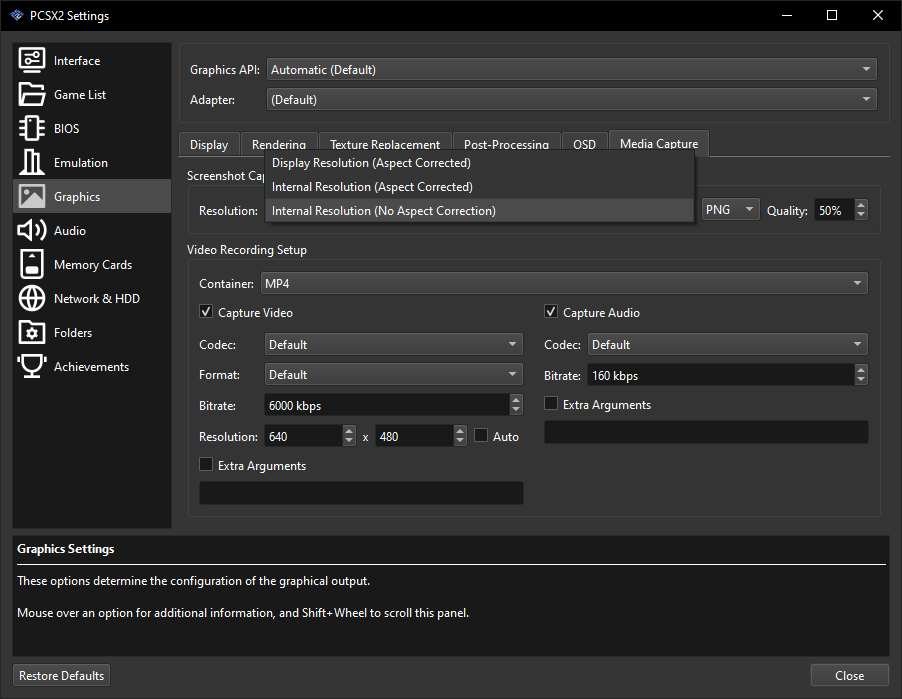
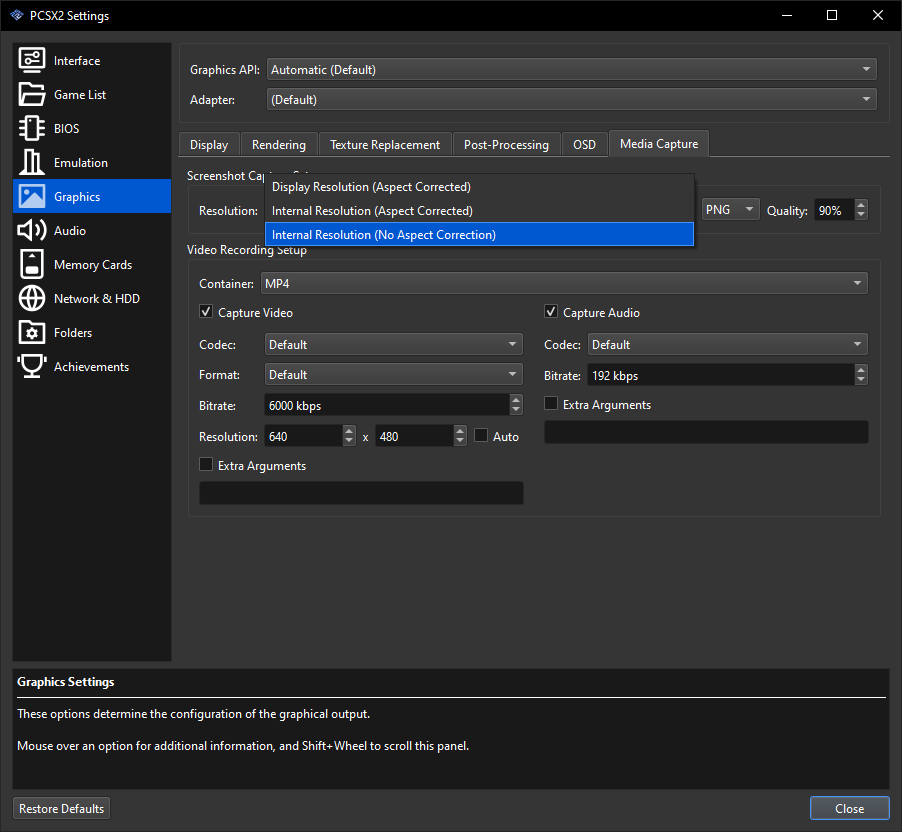
Update Screenshot Guidelines

Changed region(s): [[0.0, 0.0, 1.0, 0.721], [0.0, 0.7511, 0.9933, 0.9013], [0.0, 0.9313, 0.9933, 0.9914]]

diff --git a/docs/guidelines/content/screenshot-guidelines.md b/docs/guidelines/content/screenshot-guidelines.md
@@ -7,18 +7,17 @@ description: Guidelines for contributing game screenshots to RetroAchievements. 
 
 ## Taking Screenshots
 
-- Screenshots should be taken directly from an emulator's screenshot capture function, using the game's natural resolution. Do not use external screenshot tools and do not take screenshots of an upscaled window or full screen display. 2D games should be pixel perfect and 3D games should be their natural resolution.
-- If possible, 3D games can have their internal resolution upscaled by 2x or 3x. Note that this is a special emulator setting, not just resizing the window while it's at 1x internal resolution. This should only be done for 3D games, and only when the result looks good - it may not be desirable if the high quality 3D graphics clash too much with low quality upscaled 2D assets, and it shouldn't be done if the game is purely 2D. If used, 3x is preferred over 2x. Never submit 4x or higher.
-- For most systems, RALibretro is recommended for taking screenshots, since it generally takes them at the appropriate resolution. RetroArch should be avoided since it generally takes screenshots based on your window size.
+- Screenshots should be taken directly from an emulator's screenshot capture function, using the game's natural resolution. Do not use external screenshot tools (unless you really know what you're doing, the game's display is perfect with nothing external included, and tool's format is high quality PNG) and do not take screenshots of an upscaled window or full screen display. 2D games should generally be pixel perfect and 3D games should be their natural resolution.
+- If possible, games on 3D systems can have their internal resolution upscaled by 2x or 3x. Note that this is a special emulator setting, not just resizing the window while it's at 1x internal resolution. This should generally only be done for 3D games (though 2D games can slightly benefit sometimes, especially Wii games), and only when the result looks good - it may not be desirable if the high quality 3D graphics clash too much with low quality upscaled 2D assets (e.g. games with pre-rendered backgrounds and 3D characters), and it shouldn't be done if the game is purely 2D (again, with the exception of Wii and possibly other 2D games that slightly benefit). If used, 3x is preferred over 2x. Never submit 4x or higher.
+- For most systems, RALibretro is recommended for taking screenshots, since it generally takes them at an appropriate resolution (though it's always aspect uncorrected, so it's possible some overly wide or narrow screenshots might need to be resized to 4:3 or another standard aspect ratio). RetroArch should be avoided since it generally takes screenshots based on your window size, unless you really know what you're doing with its settings.
 - Standalone emulators such as DuckStation, PCSX2, Dolphin, and PPSSPP require configuration to have the appropriate screenshot settings. Please read the [Emulator Setup](#emulator-setup) section below.
-- You should generally never manually resize or crop a screenshot, especially if it's just to force a match with the required dimensions. If you're sure you have the appropriate emulator settings and the screenshots are correct for the game, but the site doesn't allow it, it may be an oversight. Please report these cases in the `#cleanup-requests` forum or `#screenshot-help` channel in our [Discord server](https://discord.gg/dq2E4hE) if you're sure it's a mistake.
-- Exceptions can include games for Amstrad CPC and some other systems like PS1 and Saturn where the emulator may produce screenshots that look too wide. You may need to manually resize these screenshots to the game's appropriate resolution using Nearest Neighbor scaling in an image editor. Be sure you know the game's proper resolution and be sure you know how to use Nearest Neighbor scaling if you're dealing with games like this.
-- If a game uses multiple resolutions (e.g. title screen and in-game look different), it may be necessary to resize them to one appropriate resolution for the game, especially for the primary screenshots displayed on the game page. Again, if you're dealing with games like this, be sure you know what the best unified resolution should be for the game and be sure to use Nearest Neighbor scaling.
+- Do not manually resize or crop a screenshot just to force a match with the required dimensions. If you're sure you have the appropriate emulator settings and the screenshots are correct for the game, but the site doesn't allow it, it may be an oversight in the list of allowed dimensions for the system. Please report these cases in the `#cleanup-requests` forum or `#screenshot-help` channel in our [Discord server](https://discord.gg/dq2E4hE) if you're sure it's a mistake.
+- There can be cases where an aspect uncorrected screenshot looks too wide, too narrow, or just not quite right compared to 4:3 or another standard aspect ratio. Amstrad CPC and Uzebox screenshots especially can be too wide, and other systems like PS1 and Saturn can also have these problems. Standalone emulators like DuckStation may have an aspect corrected screenshot option to solve this. But otherwise, you may need to manually resize these screenshots to the game's appropriate resolution using Nearest Neighbor scaling in an image editor. Be sure you know the game's proper resolution and be sure you know how to use Nearest Neighbor scaling if you're dealing with games like this.
 
 ## Submitting Screenshots
 
 - File size must be under 6 MB to upload.
-- Each game allows a maximum of 10 screenshots, including those marked as the title screen and completion screen. You don't have to fill all of these slots - the primary title screen and in-game screenshot and the completion screenshot are what's important.
+- Each game allows a maximum of 10 in-game screenshots, in addition to the title screen and completion screen. You don't have to fill all of these slots - the primary in-game shot, title screen, and completion screenshot are what's important.
 - Some games lack a typical title screen. In these cases, a screenshot of the title during an opening movie or loading screen may be used. If that doesn't exist, an initial menu screen or gameplay screen may be used.
 - Completion screenshots are intended to be "The End" screens that appear after beating the game, whenever possible. If such a screen doesn't exist, or if it's too uninteresting or non-distinct (i.e. pure text on a black background), creativity may be needed in taking a good screenshot during an ending scene, or when finishing the final level, defeating the final boss, winning the final round before looping (for arcade games), etc.
 - If a game currently has low quality primary screenshots for both the title screen and in-game shot, please replace both at the same time. Submitting a higher quality replacement for one while leaving the other in lower quality may be rejected.
@@ -26,14 +25,14 @@ description: Guidelines for contributing game screenshots to RetroAchievements. 
 ## General Guidelines
 
 - No watermarks are to be present on any images.
-- The English language version of the game should be used for screenshots if it exists and it's supported.
+- The English language version of the game should be used for screenshots if it exists and it's supported. English fan translations may be used for foreign language games.
 - Be sure to carefully look at the existing screenshots for a game before submitting more. Multiple screenshots of the same level or scene aren't that interesting - diversity is preferred (as much as the game allows). Do not rush and submit several screenshots of the first level just for the sake of submitting things. In games with multiple playable characters, like fighting games, don't use just one character.
-- Screenshots of menus generally shouldn't be submitted as in-game screenshots unless there's a good reason. Screenshots of gameplay are preferred. Also don't add too many shots of cutscenes at the expense of gameplay (unless it's an especially cutscene-focused game, or something like a VN).
+- Screenshots of menus generally shouldn't be submitted as in-game screenshots unless there's a good reason. Screenshots of gameplay are preferred. Also don't add too many shots of cutscenes at the expense of gameplay (unless it's an especially cinematic game, or something like a visual novel).
 - Try to make screenshots interesting in general - not just characters standing in idle poses at the beginning of each level, but shots with more action and energy as well.
 - Avoid submitting screenshots of spoilers - scenes that involve plot twists, unexpected characters or unexpected boss fights later in the game, etc. Use your best judgment. (completion screenshots are an exception, of course - the site will automatically obscure them as a spoiler)
 - Don't try too hard to be funny or provocative. It may depend on the nature of the game, but in general the screenshots should be neutral - it gets old if they're all trying to be silly.
 - Avoid adding potentially controversial or NSFW content. Even if it's in the nature of the game, screenshots (like other content on game pages) should generally steer clear of it. They can be censored if there's no other option.
-- If named characters or other forms of user input are present in screenshots, using the canonical character names is recommended if possible, or using "RA", or at least normal-sounding names. Don't use nonsense like "AAAAAA" and don't input anything offensive.
+- If named characters or other forms of user input are present in screenshots, using the canonical character names is recommended if possible, or using "RA" or "Cheevo", or at least normal-sounding names. Don't use nonsense like "AAAAAA" and don't input anything offensive.
 - If replacing a low quality primary in-game screenshot, consider reproducing its content if you feel it's interesting, or if it depicts a particularly iconic level or scene or something else that would be missed by the additional screenshots. This is not necessary, but it's something to consider.
 
 ## System-Specific Guidelines
@@ -41,30 +40,35 @@ description: Guidelines for contributing game screenshots to RetroAchievements. 
 - Game Boy screenshots should be in black-and-white. Do not use SGB borders. There can be occasional exceptions in color like Pokémon Yellow and certain homebrew games and hacks that are technically Game Boy Color games, but classified as Game Boy on the site.
 - Emulator filters and shaders should be disabled for screenshots. For example, Game Boy Color and Game Boy Advance should not use color correction, and Apple II should not use a scanline filter.
 - NES color palette can be whatever the default is in your emulator.
-- DS screenshots should include both screens in vertical orientation, without a gap in-between, and with both screens being the same size.
+- NES screenshots can be either 256x224 (default in FCEUmm core in RALibretro) or 256x240 (default in Mesen core). The latter may be preferred for some games if it shows more detail. FCEUmm can produce this size by changing its top and bottom overscan crop settings to 0.
+- DS screenshots should include both screens in vertical orientation, without a gap in-between, and with both screens being the same size. Book-style games can have horizontal orientation instead.
+- Atari 2600 screenshots taken in a narrow resolution will automatically have their width doubled to the proper display when uploaded.
+- For Amstrad CPC in RALibretro, Caprice32's status bar should be disabled, and the crop borders setting should be enabled.
 - As mentioned above, Amstrad CPC games may produce screenshots that look too wide using the Caprice32 core in RALibretro. It's recommended that you only deal with this system if you understand how the games should be displayed. Be sure to use Nearest Neighbor scaling if you have to resize the screenshots in an image editor.
 - Uzebox games may also produce produce screenshots in improper resolutions using the Uzem core in RALibretro. Be sure you know the proper resolution for the game (it can be different for each game) and use Nearest Neighbour scaling to resize the screenshots after taking them.
-- PS1, Saturn, Dreamcast, Arcade, and possibly other systems may also produce screenshots that look too wide in their raw internal resolution. Again, it's recommended that you only submit screenshots for these systems if you understand the game well and what the best resolution may be. Be sure to use Nearest Neighbor scaling if you have to resize the screenshots in an image editor.
-- For PS1, DuckStation can use its aspect corrected Internal Resolution screenshot option to deal with games that come out too wide - but this may not be desirable to leave enabled for every game, such as 2D pixel games in 256x224 that would be stretched out to 4:3.
-- PS1 in particular can produce different resolutions for the title screen and in-game, sometimes in the same aspect ratio (e.g. 640x480 and 512x384). It may be necessary to resize one to match the other (using Nearest Neighbour scaling) to ensure they match on the page.
-- Genesis, Sega CD, Amstrad CPC, and possibly other older systems may have occasional exceptions where the resolution doesn't match between title screen and in-game, but you may not want to resize them and distort the pixels.
+- PS1, Saturn, Dreamcast, Arcade, and possibly other systems may also produce screenshots that look too wide or too narrow in their uncorrected internal resolution. Again, it's recommended that you only submit screenshots for these systems if you understand the game well and what the best resolution may be. Be sure to use Nearest Neighbor scaling if you have to resize the screenshots in an image editor.
+- For PS1, DuckStation can use its aspect corrected Internal Resolution screenshot option to deal with games that come out too wide or too narrow - but this may not be desirable to leave enabled for every game, such as 2D pixel games in 256x224 that would be stretched out to 4:3.
+- PS1 in particular can produce different resolutions for the title screen and in-game. If they're in the same aspect ratio (e.g. 640x480 and 512x384) or close enough, and not one of the overly wide or overly narrow resolutions, it's currently fine to submit them without resizing one to match the other. This remains accurate to the level of detail in both.
+- Genesis, Sega CD, and possibly other older systems can also have occasional games where the resolution doesn't match between title screen and in-game, or even changes in-game, but it's currently fine to submit them without resizing them and distorting the pixels.
 - For PS2, GameCube, and Wii, you may want to use the aspect corrected screenshot option rather than aspect uncorrected if it looks better for the game. This can especially be the case for widescreen Wii games.
 - PS2 games should never have widescreen enabled.
-- Wii games should always have widescreen enabled (this should already be the default in Dolphin).
+- Wii games should generally have widescreen enabled (this should already be the default in Dolphin). However, 4:3 screenshots can be submitted if widescreen isn't supported by the game or doesn't appear right.
 - For PC-88, avoid using Skip Line or Interlace modes (this should already be the default in RAQUASI88).
+- For Apple II in RAppleWin, disable the 50% Scan Lines option and set Video Mode to Color (Composite Idealized) or Color (RGB Card/Monitor) (may depend on the game). Use Shift + Print Screen to take a 280x192 screenshot (generally preferred), or Print Screen alone to take a 560x384 screenshot (may be required for certain games like text adventures). The screenshot will be in BMP format in the same folder as the game you launched, and it must be converted to PNG format using an image editor before uploading.
 
 ## Screenshot Dimensions
 
 - Listed below are the standard image dimensions for each system. Some systems may differ depending on the game.
-- A reminder: in general, please do not manually resize or crop your screenshots to match with these dimensions. They should be produced automatically by the emulator with appropriate settings, with rare exceptions that may be explained elsewhere on this page. If you believe an error has been made, please report it in the `#cleanup-requests` forum or `#screenshot-help` channel as explained above.
+- For 3D systems, only the 1x resolutions are listed here, but 2x and 3x resolutions will automatically be accepted as well.
+- A reminder: in general, please do not manually resize or crop your screenshots to match with these dimensions. They should be produced automatically by the emulator with appropriate settings, with some exceptions explained elsewhere on this page. If you believe an error has been made or a proper resolution can be added to the list, please report it in the `#cleanup-requests` forum or `#screenshot-help` channel as explained above.
 - This list may not always be up to date with the site's configuration if a change is made there without editing this page yet.
 	- 3DO Interactive Multiplayer - 320x240
-	- Amstrad CPC - 192x272, 384x272
+	- Amstrad CPC - 160x240, 320x240
 	- Apple II - 280x192, 560x384
 	- Arcade - Game-dependent
 	- Arcadia 2001 - 164x269 (Taken in narrow)
 	- Arduboy - 128x64
-	- Atari 2600 - 160x228 (NTSC), 160x274 (PAL)
+	- Atari 2600 - 160x228 (NTSC), 160x274 (PAL) (Will automatically be doubled in width when uploaded)
 	- Atari 5200 - 320x228, 336x240
 	- Atari 7800 - 320x223, 320x272, 320x240, 160x240
 	- Atari Jaguar - Game-dependent
@@ -88,7 +92,7 @@ description: Guidelines for contributing game screenshots to RetroAchievements. 
 	- Magnavox Odyssey 2 - 320x235
 	- Mattel Intellivision - 320x200
 	- Mega Duck - 160x144
-	- Microsoft MSX - 272x240
+	- Microsoft MSX - 272x240, 544x480
 	- Microsoft Xbox - 640x480
 	- NEC PC Engine CD/TurboGrafx-CD - 256x232, 256x239, 336x239, 512x243
 	- NEC PC Engine/TurboGrafx-16 - 256x232, 256x239, 336x239, 512x243
@@ -105,7 +109,7 @@ description: Guidelines for contributing game screenshots to RetroAchievements. 
 	- Nintendo Game Boy - 160x144
 	- Nintendo Game Boy Advance - 240x160
 	- Nintendo Game Boy Color - 160x144
-	- Nintendo GameCube - 640x480, 640x448, 512x464, 512x480, 640x532, 512x448
+	- Nintendo GameCube - 640x480, 640x448, 512x464, 512x480, 640x532, 512x448, 640x528, 576x448, 722x528
 	- Nintendo Pokemon Mini - 96x64
 	- Nintendo Virtual Boy - 320x186, 384x224
 	- Nintendo Wii - Game-dependent
@@ -127,10 +131,10 @@ description: Guidelines for contributing game screenshots to RetroAchievements. 
 	- Sinclair ZX81 - 256x192
 	- SNK Neo Geo CD - 320x224
 	- SNK Neo Geo Pocket - 160x152
-	- Sony PlayStation - 320x240, 256x240, 320x480, 256x480, 368x480, 512x480, 640x480, 320x224, 320x268, 512x384, 368x240
-	- Sony PlayStation 2 - 640x480, 640x448, 640x512, 596x447, 682x512, 512x448, 512x446
+	- Sony PlayStation - 320x240, 256x240, 320x480, 256x480, 368x480, 512x480, 640x480, 320x224, 320x268, 512x384, 368x240, 640x416, 320x208, 256x224, 299x224, 365x224, 640x448, 640x512, 320x256, 640x536, 715x536, 358x268, 598x448
+	- Sony PlayStation 2 - 640x480, 640x448, 640x512, 596x447, 682x512, 512x448, 512x446, 597x448, 512x512, 512x384, 711x480, 711x533, 512x445, 593x445
 	- Sony PlayStation Portable - 480x272
-	- Super Nintendo Entertainment System/Famicom - 256x224, 256x240, 512x224
+	- Super Nintendo Entertainment System/Famicom - 256x224, 256x240, 512x448
 	- TCS Oric - 240x224
 	- Texas Instruments TI-83 - 96x64
 	- Thomson TO8 - 672x432
@@ -144,11 +148,11 @@ description: Guidelines for contributing game screenshots to RetroAchievements. 
 
 ### DuckStation
 
-- Go to Settings -> Capture and under Screenshots, set Screenshot Size to Internal Resolution (Aspect Uncorrected). If you have reason to believe it's better for the game, you can also use the normal Internal Resolution option (which gives corrected aspect ratio). This can fix screenshots that come out too wide when uncorrected, but may be undesirable for other games, such as 2D pixel games in 256x224 that would be stretched out to 4:3.
+- Go to Settings -> Capture and under Screenshots, set Screenshot Size to Internal Resolution (Aspect Uncorrected). If you have reason to believe it's better for the game, you can also use the normal Internal Resolution option (which gives corrected aspect ratio). This can fix screenshots that come out too wide or too narrow when uncorrected, but may be undesirable for other games, such as 2D pixel games in 256x224 that would be stretched out to 4:3.
 
 ![DuckStation Screenshot Size setting](/duckstation-screenshot-size.png)
 
-- To increase the internal resolution by 2x or 3x, go to Settings -> Graphics -> Rendering tab -> Internal Resolution. If you choose to do this, 3x Native is preferred for screenshots. Please only do this for 3D games, and only if the result looks good. 2D games shouldn't be upscaled.
+- To increase the internal resolution by 2x or 3x, go to Settings -> Graphics -> Rendering tab -> Internal Resolution. If you choose to do this, 3x Native is preferred for screenshots. This should generally only be done for 3D games, and only if the result looks good. 2D games generally shouldn't be upscaled, though there may be exceptions that slightly benefit.
 
 ![DuckStation Internal Resolution setting](/duckstation-internal-resolution.png)
 
@@ -156,27 +160,30 @@ description: Guidelines for contributing game screenshots to RetroAchievements. 
 
 ### PCSX2
 
-- Go to Settings -> Graphics -> Media Capture tab and under Screenshot Capture Setup, set Resolution to Internal Resolution (No Aspect Correction). If you have reason to believe it's better for the game, you can also use the Internal Resolution (Aspect Corrected) option.
+- Go to Settings -> Graphics -> Media Capture tab and under Screenshot Capture Setup, set Resolution to Internal Resolution (No Aspect Correction). If you have reason to believe it's better for the game, you can also use the Internal Resolution (Aspect Corrected) option. No Aspect Correction might feel too narrow sometimes, and Aspect Corrected might be better if it produces rounder circles, etc.
+- Also set PNG quality to 90% if it isn't already.
 
 ![PCSX2 Screenshot Resolution setting](/pcsx2-screenshot-resolution.png)
 
-- To increase the internal resolution by 2x or 3x, go to Settings -> Graphics -> Rendering tab -> Internal Resolution. If you choose to do this, 3x Native is preferred for screenshots. Please only do this for 3D games, and only if the result looks good. 2D games shouldn't be upscaled.
+- To increase the internal resolution by 2x or 3x, go to Settings -> Graphics -> Rendering tab -> Internal Resolution. If you choose to do this, 3x Native is preferred for screenshots. This should generally only be done for 3D games, and only if the result looks good. 2D games generally shouldn't be upscaled, though there may be exceptions that slightly benefit.
 
 ![PCSX2 Internal Resolution setting](/pcsx2-internal-resolution.png)
 
-- All other settings can be default, especially Aspect Ratio under the Display tab. Widescreen should not be used for PS2 screenshots (just to keep things simple and standard for the system).
+- All other settings can be default, especially Aspect Ratio under the Display tab - this must be the default Auto Standard setting. Widescreen should not be used for PS2 screenshots (just to keep things simple and standard for the system).
+
+![PCSX2 Display settings](/pcsx2-display.png)
 
 ### Dolphin
 
-- Go to Settings -> Graphics -> Advanced tab and under Frame Dumping, set Resolution Type to Raw Internal Resolution. If you have reason to believe it's better for the game, you can also use the Aspect Ratio Corrected Internal Resolution option. This may especially be the case for widescreen Wii games.
+- Go to Settings -> Graphics -> Advanced tab and under Frame Dumping, set Resolution Type to Raw Internal Resolution. If you have reason to believe it's better for the game, you can also use the Aspect Ratio Corrected Internal Resolution option.  Raw Internal Resolution might feel too narrow sometimes, and Aspect Ratio Corrected might be better if it produces rounder circles, etc. This may especially be the case for widescreen Wii games.
 
 ![Dolphin Screenshot Resolution Type setting](/dolphin-screenshot-resolution-type.png)
 
-- Widescreen is preferred for Wii screenshots, so go to Settings -> Wii and under Misc Settings, make sure Aspect Ratio is set to 16:9 (this should be the default).
+- Widescreen is generally preferred for Wii screenshots, so go to Settings -> Wii and under Misc Settings, make sure Aspect Ratio is set to 16:9 (this should be the default). There can be exceptions for games that don't support or don't look right in widescreen.
 
 ![Dolphin Wii Aspect Ratio setting](/dolphin-wii-aspect-ratio.png)
 
-- To increase the internal resolution by 2x or 3x, go to Settings -> Graphics -> Enhancements tab -> Internal Resolution. If you choose to do this, 3x Native is preferred for screenshots. Please only do this for 3D games, and only if the result looks good. 2D games shouldn't be upscaled.
+- To increase the internal resolution by 2x or 3x, go to Settings -> Graphics -> Enhancements tab -> Internal Resolution. If you choose to do this, 3x Native is preferred for screenshots. While this is mainly for 3D games, it can also benefit the quality of 2D Wii games, moreso than other systems.
 
 ![Dolphin Internal Resolution setting](/dolphin-internal-resolution.png)
 
@@ -184,50 +191,73 @@ description: Guidelines for contributing game screenshots to RetroAchievements. 
 
 ### PPSSPP
 
-- Go to Settings -> System -> General and set Screenshot Mode to Raw Game Image. Enabling "Save screenshots in PNG format" is also recommended.
+- Go to Settings -> System -> General and set Screenshot Mode to Raw Game Image. There may be exceptions if the game produces an improper 512x272 resolution - you can use Final Processed Image in these cases, but make sure your Game Settings -> Window Size is the same as the Rendering Resolution you're using, and make sure there's no other effects being captured.
+- Also enable "Save screenshots in PNG format".
 
 ![PPSSPP Screenshot Mode setting](/ppsspp-screenshot-mode.png)
 
-- To increase the internal resolution by 2x or 3x, go to Settings -> Graphics -> Rendering Mode -> Rendering Resolution. If you choose to do this, 3x PSP is preferred for screenshots.  Please only do this for 3D games, and only if the result looks good. 2D games shouldn't be upscaled. Also note if this setting is set to Auto, the internal resolution will correspond with your Window Size setting.
+- To increase the internal resolution by 2x or 3x, go to Settings -> Graphics -> Rendering Mode -> Rendering Resolution. If you choose to do this, 3x PSP is preferred for screenshots.  This should generally only be done for 3D games, and only if the result looks good. 2D games generally shouldn't be upscaled, though there may be exceptions that slightly benefit. Also note if this setting is set to Auto, the internal resolution will correspond with your Window Size setting.
 
 ![PPSSPP Rendering Resolution setting](/ppsspp-rendering-resolution.png)
 
 - All other settings can be default.
 
+### RAppleWin
+
+- Go to Configuration (bottom right button), disable 50% Scan Lines if it isn't already, and set Video Mode to Color (Composite Idealized) or Color (RGB Card/Monitor) (may depend on the game). You can also press F9 (forward) or Shift + F9 (back) to quickly change and test Video Modes in a game. Use Shift + Print Screen to take a 280x192 screenshot (generally preferred), or Print Screen alone to take a 560x384 screenshot (may be required for certain games like text adventures). The screenshot will be in BMP format in the same folder as the game you launched, and it must be converted to PNG format using an image editor before uploading.
+
+![RAppleWin - Configuration](/rapplewin-configuration.png)
+
 ### RALibretro
 
 #### SwanStation
 
-- If you wish to increase the internal resolution to 3x here, go to Core Settings -> Enhancement Settings and set Internal Resolution Scale to 3. Leave everything else default. Please only do this for 3D games, and only if the result looks good. 2D games shouldn't be upscaled.
+- If you wish to increase the internal resolution to 3x here, go to Core Settings -> Enhancement Settings and set Internal Resolution Scale to 3. Leave everything else default. This should generally only be done for 3D games, and only if the result looks good. 2D games generally shouldn't be upscaled, though there may be exceptions that slightly benefit.
 
 ![RALibretro - SwanStation Internal Resolution Scale setting](/ralibretro-swanstation-internal-resolution-scale.png)
 
 #### Mupen64Plus-Next
 
-- To increase the internal resolution with this core, using the default GLideN64 plugin, go to Core Settings -> GLideN64 and set 4:3 Resolution to 960x720 (x3). Leave everything else default. Please only do this for 3D games, and only if the result looks good. 2D games shouldn't be upscaled.
+- To increase the internal resolution with this core, using the default GLideN64 plugin, go to Core Settings -> GLideN64 and set 4:3 Resolution to 960x720 (x3). Leave everything else default. This should generally only be done for 3D games, and only if the result looks good. 2D games generally shouldn't be upscaled, though there may be exceptions that slightly benefit.
 
 ![RALibretro - Mupen64Plus-Next Resolution setting](/ralibretro-mupen64plus-next-resolution.png)
 
 #### ParaLLEl N64
 
-- To increase the internal resolution here, go to Core Settings -> General and set Resolution to 960x720 (x3). Leave everything else default. Please only do this for 3D games, and only if the result looks good. 2D games shouldn't be upscaled.
+- To increase the internal resolution here, go to Core Settings -> General and set Resolution to 960x720 (x3). Leave everything else default. This should generally only be done for 3D games, and only if the result looks good. 2D games generally shouldn't be upscaled, though there may be exceptions that slightly benefit.
 
 ![RALibretro - ParaLLEl N64 Resolution setting](/ralibretro-parallel-n64-resolution.png)
 
 #### Flycast
 
-- To increase the internal resolution with this core, go to Core Settings -> Video and set Internal Resolution to 1920x1440 (x3). Leave everything else default. Please only do this for 3D games, and only if the result looks good. 2D games shouldn't be upscaled.
+- To increase the internal resolution with this core, go to Core Settings -> Video and set Internal Resolution to 1920x1440 (x3). Leave everything else default. This should generally only be done for 3D games, and only if the result looks good. 2D games generally shouldn't be upscaled, though there may be exceptions that slightly benefit.
 
 ![RALibretro - Flycast Internal Resolution setting](/ralibretro-flycast-internal-resolution.png)
 
 #### DeSmuME
 
-- To increase the internal resolution here, go to Core Settings -> Graphics and set Internal Resolution to 768x576 (x3). Leave everything else default. Please only do this for 3D games, and only if the result looks good. 2D games shouldn't be upscaled.
+- To increase the internal resolution here, go to Core Settings -> Graphics and set Internal Resolution to 768x576 (x3). Leave everything else default. This should generally only be done for 3D games, and only if the result looks good. 2D games generally shouldn't be upscaled, though there may be exceptions that slightly benefit.
 
 ![RALibretro - DeSmuME Internal Resolution setting](/ralibretro-desmume-internal-resolution.png)
 
 #### PPSSPP
 
-- To increase the internal resolution here, go to Core Settings -> Video and set Rendering Resolution to 1440x816 (x3). Leave everything else default. Please only do this for 3D games, and only if the result looks good. 2D games shouldn't be upscaled.
+- To increase the internal resolution here, go to Core Settings -> Video and set Rendering Resolution to 1440x816 (x3). Leave everything else default. This should generally only be done for 3D games, and only if the result looks good. 2D games generally shouldn't be upscaled, though there may be exceptions that slightly benefit.
 
 ![RALibretro - PPSSPP Rendering Resolution setting](/ralibretro-ppsspp-rendering-resolution.png)
+
+#### FCEUmm
+
+- To display games at 256x240 instead of 256x224 in FCEUmm, go to Core Settings -> Video and set Crop Vertical Top Overscan and Crop Vertical Bottom to 0. This is already the default setting in the Mesen core, and it may display more detail in some games.
+
+![RALibretro - FCEUmm Crop Vertical setting](/ralibretro-fceumm-crop-vertical.png)
+
+#### Caprice32
+
+- To remove the Amstrad CPC status bar at the bottom of the screen so it doesn't appear in screenshots, go to Core Settings -> System and set Status Bar to Disabled.
+
+![RALibretro - Caprice32 Status Bar setting](/ralibretro-caprice32-status-bar.png)
+
+- To crop the excessive borders, go to Core Settings -> Video and set Crop Screen Borders to Enabled. This will cause games to display at 320x240.
+
+![RALibretro - Caprice32 Crop Screen Borders setting](/ralibretro-caprice32-crop-screen-borders.png)